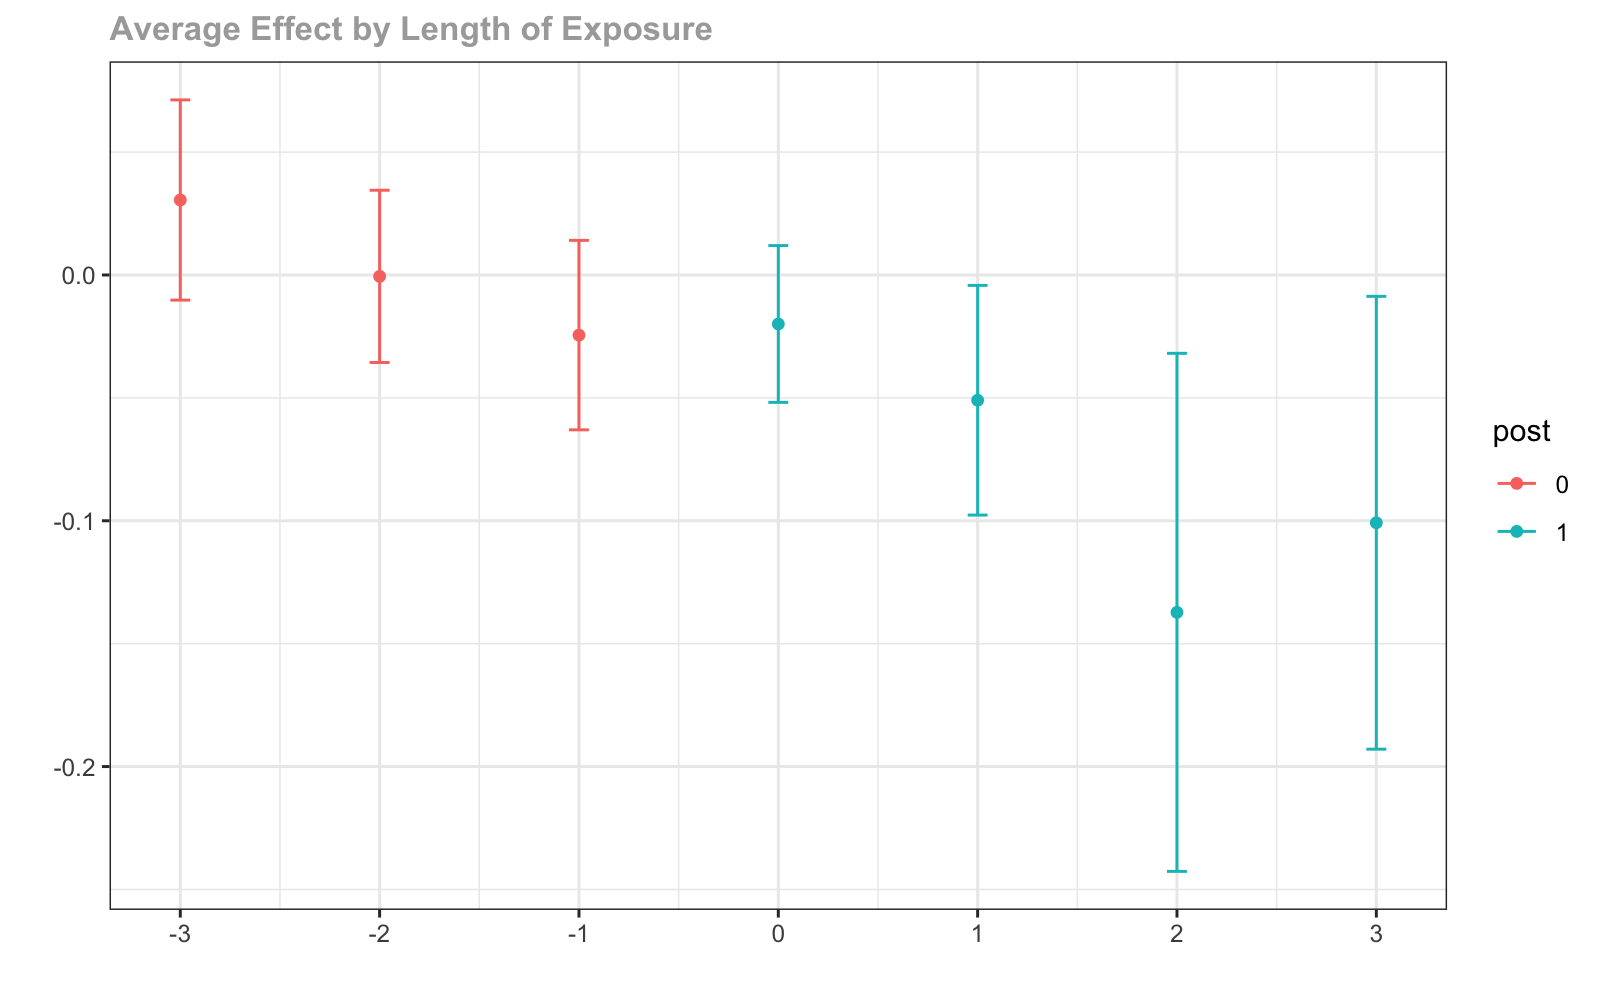
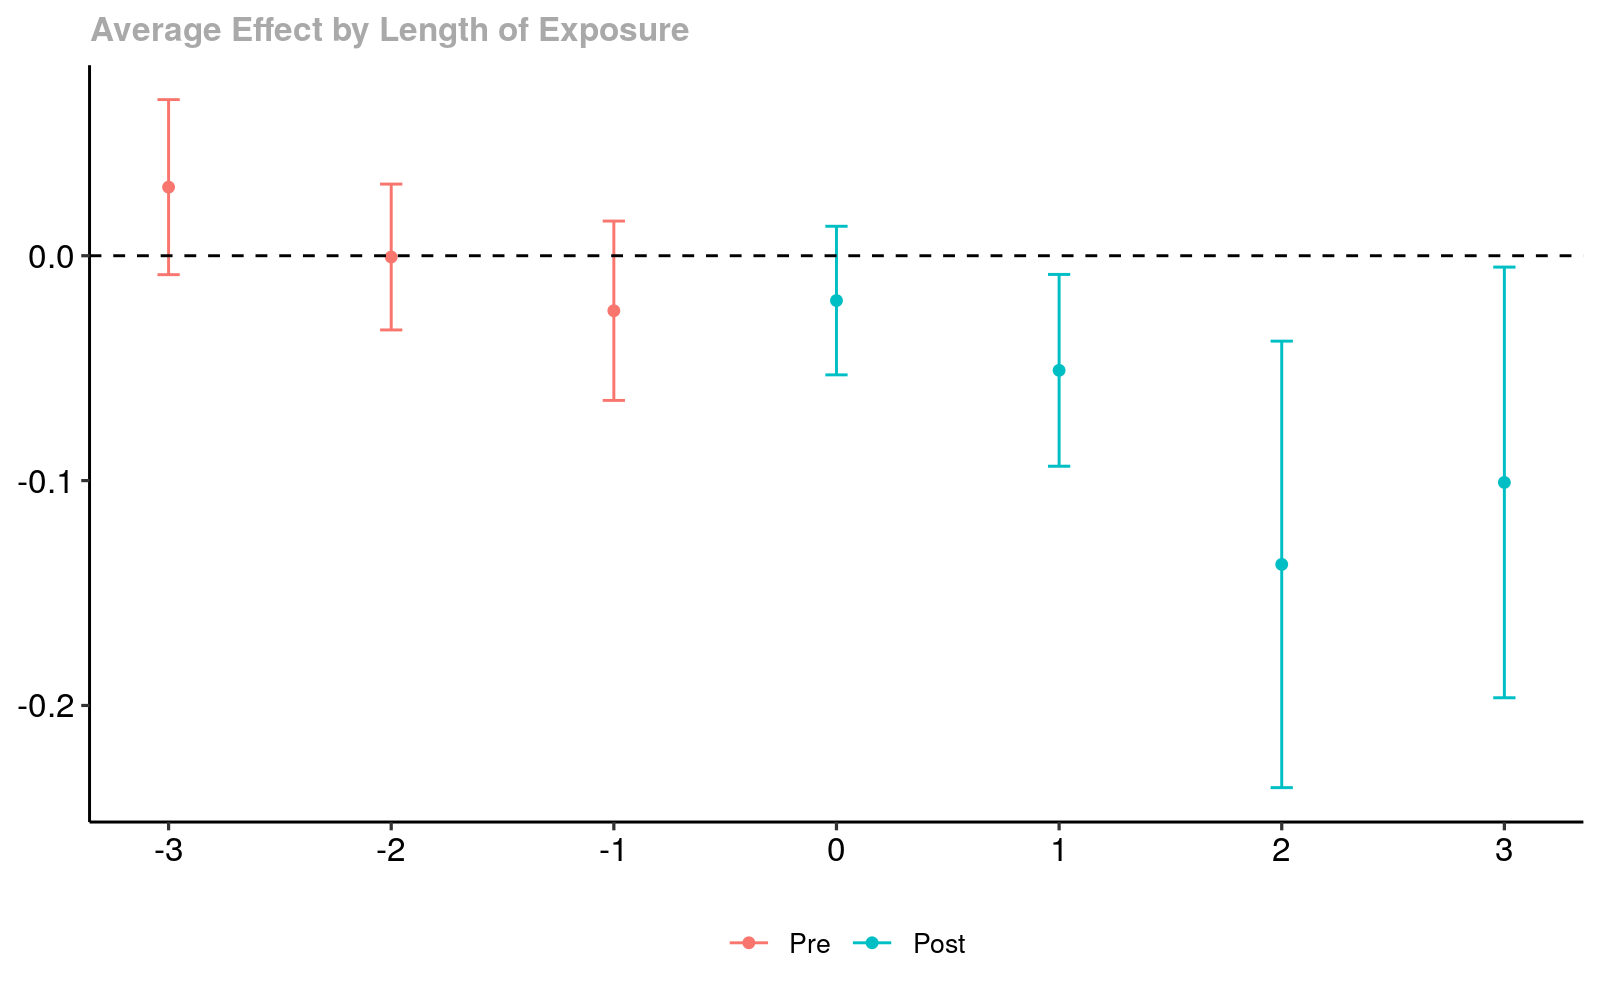
updated readme

diff --git a/README.md b/README.md
@@ -1,67 +1,45 @@
 
 <!-- README.md is generated from README.Rmd. Please edit that file -->
-
 # Difference-in-Differences <img src="man/figures/logo.png" align="right" alt="" width="155" />
 
 <!-- badges: start -->
-
 [![](http://cranlogs.r-pkg.org/badges/grand-total/did?color=orange)](https://cran.r-project.org/package=did)
 
 [![](http://cranlogs.r-pkg.org/badges/last-month/did?color=green)](https://cran.r-project.org/package=did)
 
 [![](https://www.r-pkg.org/badges/version/did?color=blue)](https://cran.r-project.org/package=did)
 
-[![](https://img.shields.io/badge/devel%20version-2.0.1-blue.svg)](https://github.com/bcallaway11/did)
+[![](https://img.shields.io/badge/devel%20version-2.0.1.907-blue.svg)](https://github.com/bcallaway11/did)
 
 [![](https://img.shields.io/github/languages/code-size/bcallaway11/did.svg)](https://github.com/bcallaway11/did)
 
-[![CRAN
-checks](https://cranchecks.info/badges/summary/did)](https://cran.r-project.org/web/checks/check_results_did.html)
+[![CRAN checks](https://cranchecks.info/badges/summary/did)](https://cran.r-project.org/web/checks/check_results_did.html)
 
 <!-- badges: end -->
-
 <!-- README.md is generated from README.Rmd. Please edit that file -->
+The **did** package contains tools for computing average treatment effect parameters in a Difference-in-Differences setup allowing for
 
-The **did** package contains tools for computing average treatment
-effect parameters in a Difference-in-Differences setup allowing for
+-   More than two time periods
 
-  - More than two time periods
+-   Variation in treatment timing (i.e., units can become treated at different points in time)
 
-  - Variation in treatment timing (i.e., units can become treated at
-    different points in time)
+-   Treatment effect heterogeneity (i.e, the effect of participating in the treatment can vary across units and exhibit potentially complex dynamics, selection into treatment, or time effects)
 
-  - Treatment effect heterogeneity (i.e, the effect of participating in
-    the treatment can vary across units and exhibit potentially complex
-    dynamics, selection into treatment, or time effects)
+-   The parallel trends assumption holds only after conditioning on covariates
 
-  - The parallel trends assumption holds only after conditioning on
-    covariates
+The main parameters are **group-time average treatment effects**. These are the average treatment effect for a particular group (group is defined by treatment timing) in a particular time period. These parameters are a natural generalization of the average treatment effect on the treated (ATT) which is identified in the textbook case with two periods and two groups to the case with multiple periods.
 
-The main parameters are **group-time average treatment effects**. These
-are the average treatment effect for a particular group (group is
-defined by treatment timing) in a particular time period. These
-parameters are a natural generalization of the average treatment effect
-on the treated (ATT) which is identified in the textbook case with two
-periods and two groups to the case with multiple periods.
-
-Group-time average treatment effects are also natural building blocks
-for more aggregated treatment effect parameters such as overall
-treatment effects or event-study-type estimands.
+Group-time average treatment effects are also natural building blocks for more aggregated treatment effect parameters such as overall treatment effects or event-study-type estimands.
 
 ## Getting Started
 
-There has been some recent work on DiD with multiple time periods. The
-**did** package implements the framework put forward in
+There has been some recent work on DiD with multiple time periods. The **did** package implements the framework put forward in
 
-  - [Callaway, Brantly, and Pedro H.C. Sant'Anna.
-    Difference-in-differences with multiple time periods. Forthcoming at
-    the Journal of Econometrics
-    (2020).](https://authors.elsevier.com/a/1cFzc15Dji4pnC)
+-   [Callaway, Brantly, and Pedro H.C. Sant'Anna. Difference-in-differences with multiple time periods. Forthcoming at the Journal of Econometrics (2020).](https://authors.elsevier.com/a/1cFzc15Dji4pnC)
 
 **Higher level discussions of issues are available in**
 
-  - [Our approach to DiD with multiple time
-    periods](https://bcallaway11.github.io/did/articles/multi-period-did.html)
+-   [Our approach to DiD with multiple time periods](https://bcallaway11.github.io/did/articles/multi-period-did.html)
 
 ## Installation
 
@@ -80,13 +58,9 @@ devtools::install_github("bcallaway11/did")
 
 ## A short example
 
-The following is a simplified example of the effect of states increasing
-their minimum wages on county-level teen employment rates which comes
-from [Callaway and Sant’Anna
-(2020)](https://authors.elsevier.com/a/1cFzc15Dji4pnC).
+The following is a simplified example of the effect of states increasing their minimum wages on county-level teen employment rates which comes from [Callaway and Sant'Anna (2020)](https://authors.elsevier.com/a/1cFzc15Dji4pnC).
 
-  - [More detailed examples are also
-    available](https://bcallaway11.github.io/did/articles/did-basics.html)
+-   [More detailed examples are also available](https://bcallaway11.github.io/did/articles/did-basics.html)
 
 A subset of the data is available in the package and can be loaded by
 
@@ -95,25 +69,17 @@ A subset of the data is available in the package and can be loaded by
   data(mpdta)
 ```
 
-The dataset contains 500 observations of county-level teen employment
-rates from 2003-2007. Some states are first treated in 2004, some in
-2006, and some in 2007 (see the paper for more details). The important
-variables in the dataset are
+The dataset contains 500 observations of county-level teen employment rates from 2003-2007. Some states are first treated in 2004, some in 2006, and some in 2007 (see the paper for more details). The important variables in the dataset are
 
-  - **lemp** This is the log of county-level teen employment. It is the
-    outcome variable
+-   **lemp** This is the log of county-level teen employment. It is the outcome variable
 
-  - **first.treat** This is the period when a state first increases its
-    minimum wage. It can be 2004, 2006, or 2007. It is the variable that
-    defines *group* in this application
+-   **first.treat** This is the period when a state first increases its minimum wage. It can be 2004, 2006, or 2007. It is the variable that defines *group* in this application
 
-  - **year** This is the year and is the *time* variable
+-   **year** This is the year and is the *time* variable
 
-  - **countyreal** This is an id number for each county and provides the
-    individual identifier in this panel data context
+-   **countyreal** This is an id number for each county and provides the individual identifier in this panel data context
 
-To estimate group-time average treatment effects, use the **att\_gt**
-function
+To estimate group-time average treatment effects, use the **att\_gt** function
 
 ``` r
 out <- att_gt(yname = "lemp",
@@ -126,10 +92,7 @@ out <- att_gt(yname = "lemp",
               )
 ```
 
-**att\_gt** returns a class **MP** object. This has a lot of
-information, but most importantly is has estimates of the group-time
-average treatment effects and their standard errors. To see these, we
-can call the **summary** function
+**att\_gt** returns a class **MP** object. This has a lot of information, but most importantly is has estimates of the group-time average treatment effects and their standard errors. To see these, we can call the **summary** function
 
 ``` r
 summary(out)
@@ -142,18 +105,18 @@ summary(out)
 #> 
 #> Group-Time Average Treatment Effects:
 #>  Group Time ATT(g,t) Std. Error [95% Simult.  Conf. Band]  
-#>   2004 2004  -0.0105     0.0259       -0.0796      0.0586  
-#>   2004 2005  -0.0704     0.0312       -0.1535      0.0127  
-#>   2004 2006  -0.1373     0.0375       -0.2373     -0.0372 *
-#>   2004 2007  -0.1008     0.0352       -0.1947     -0.0069 *
-#>   2006 2004   0.0065     0.0229       -0.0547      0.0677  
-#>   2006 2005  -0.0028     0.0203       -0.0568      0.0513  
-#>   2006 2006  -0.0046     0.0179       -0.0522      0.0430  
-#>   2006 2007  -0.0412     0.0210       -0.0972      0.0148  
-#>   2007 2004   0.0305     0.0159       -0.0118      0.0728  
-#>   2007 2005  -0.0027     0.0164       -0.0465      0.0410  
-#>   2007 2006  -0.0311     0.0183       -0.0797      0.0176  
-#>   2007 2007  -0.0261     0.0179       -0.0737      0.0215  
+#>   2004 2004  -0.0105     0.0255       -0.0788      0.0578  
+#>   2004 2005  -0.0704     0.0311       -0.1539      0.0130  
+#>   2004 2006  -0.1373     0.0364       -0.2351     -0.0394 *
+#>   2004 2007  -0.1008     0.0337       -0.1912     -0.0104 *
+#>   2006 2004   0.0065     0.0242       -0.0583      0.0713  
+#>   2006 2005  -0.0028     0.0186       -0.0526      0.0471  
+#>   2006 2006  -0.0046     0.0184       -0.0539      0.0448  
+#>   2006 2007  -0.0412     0.0205       -0.0961      0.0137  
+#>   2007 2004   0.0305     0.0161       -0.0127      0.0737  
+#>   2007 2005  -0.0027     0.0160       -0.0458      0.0403  
+#>   2007 2006  -0.0311     0.0192       -0.0826      0.0204  
+#>   2007 2007  -0.0261     0.0174       -0.0726      0.0205  
 #> ---
 #> Signif. codes: `*' confidence band does not cover 0
 #> 
@@ -162,17 +125,9 @@ summary(out)
 #> Estimation Method:  Outcome Regression
 ```
 
-This provides estimates of group-time average treatment effects for all
-groups in all time periods. Group-time average treatment effects are
-identified when `t >= g` (these are post-treatment time periods for each
-group), but **summary** reports them even in periods when `t < g` –
-these can be used to pre-test for the parallel trends assumption. The
-`P-value for pre-test of parallel trends assumption` is for a Wald
-pre-test of the parallel trends assumption. Here the parallel trends
-assumption would not be rejected at conventional significance levels.
+This provides estimates of group-time average treatment effects for all groups in all time periods. Group-time average treatment effects are identified when `t >= g` (these are post-treatment time periods for each group), but **summary** reports them even in periods when `t < g` -- these can be used to pre-test for the parallel trends assumption. The `P-value for pre-test of parallel trends assumption` is for a Wald pre-test of the parallel trends assumption. Here the parallel trends assumption would not be rejected at conventional significance levels.
 
-It is often also convenient to plot the group-time average treatment
-effects. This can be done using the **ggdid** command:
+It is often also convenient to plot the group-time average treatment effects. This can be done using the **ggdid** command:
 
 ``` r
 ggdid(out, ylim = c(-.25,.1))
@@ -180,32 +135,19 @@ ggdid(out, ylim = c(-.25,.1))
 
 <img src="man/figures/README-unnamed-chunk-8-1.png" width="90%" style="display: block; margin: auto;" />
 
-The red dots in the plot are pre-treatment group-time average treatment
-effects . Here they are provided with 95% simultaneous confidence
-intervals. These are the estimates that can be interpreted as a pre-test
-of the parallel trends assumption. The blue dots are post-treatment
-group-time average treatment effects. Under the parallel trends
-assumption, these can be interpreted as policy effects – here the effect
-of the minimum wage on county-level teen employment due to increasing
-the minimum wage.
+The red dots in the plot are pre-treatment group-time average treatment effects . Here they are provided with 95% simultaneous confidence intervals. These are the estimates that can be interpreted as a pre-test of the parallel trends assumption. The blue dots are post-treatment group-time average treatment effects. Under the parallel trends assumption, these can be interpreted as policy effects -- here the effect of the minimum wage on county-level teen employment due to increasing the minimum wage.
 
 **Event Studies**
 
-Although in the current example it is pretty easy to directly interpret
-the group-time average treatment effects, there are many cases where it
-is convenient to aggregate the group-time average treatment effects into
-a small number of parameters. A main type of aggregation is into an
-*event study* plot.
+Although in the current example it is pretty easy to directly interpret the group-time average treatment effects, there are many cases where it is convenient to aggregate the group-time average treatment effects into a small number of parameters. A main type of aggregation is into an *event study* plot.
 
-To make an event study plot in the **did** package, one can use the
-**aggte** function
+To make an event study plot in the **did** package, one can use the **aggte** function
 
 ``` r
 es <- aggte(out, type = "dynamic")
 ```
 
-Just like for group-time average treatment effects, these can be
-summarized and plotted. First, the summary
+Just like for group-time average treatment effects, these can be summarized and plotted. First, the summary
 
 ``` r
 summary(es)
@@ -216,20 +158,20 @@ summary(es)
 #> Reference: Callaway, Brantly and Pedro H.C. Sant'Anna.  "Difference-in-Differences with Multiple Time Periods." Forthcoming at the Journal of Econometrics <https://arxiv.org/abs/1803.09015>, 2020. 
 #> 
 #> 
-#> Overall ATT:  
-#>      ATT Std. Error     [95%  Conf. Int.]  
-#>  -0.0772     0.0205   -0.1175      -0.037 *
+#> Overall summary of ATT’s based on event-study/dynamic aggregation:  
+#>      ATT    Std. Error     [ 95%  Conf. Int.]  
+#>  -0.0772        0.0203     -0.117     -0.0374 *
 #> 
 #> 
 #> Dynamic Effects:
 #>  Event time Estimate Std. Error [95% Simult.  Conf. Band]  
-#>          -3   0.0305     0.0153       -0.0102      0.0712  
-#>          -2  -0.0006     0.0132       -0.0356      0.0345  
-#>          -1  -0.0245     0.0145       -0.0630      0.0141  
-#>           0  -0.0199     0.0120       -0.0518      0.0120  
-#>           1  -0.0510     0.0175       -0.0977     -0.0042 *
-#>           2  -0.1373     0.0396       -0.2426     -0.0319 *
-#>           3  -0.1008     0.0346       -0.1929     -0.0087 *
+#>          -3   0.0305     0.0148       -0.0084      0.0694  
+#>          -2  -0.0006     0.0123       -0.0330      0.0319  
+#>          -1  -0.0245     0.0151       -0.0643      0.0154  
+#>           0  -0.0199     0.0125       -0.0530      0.0131  
+#>           1  -0.0510     0.0162       -0.0936     -0.0083 *
+#>           2  -0.1373     0.0376       -0.2365     -0.0380 *
+#>           3  -0.1008     0.0363       -0.1966     -0.0051 *
 #> ---
 #> Signif. codes: `*' confidence band does not cover 0
 #> 
@@ -237,11 +179,7 @@ summary(es)
 #> Estimation Method:  Outcome Regression
 ```
 
-The column `event time` is for each group relative to when they first
-participate in the treatment. To give some examples, `event time=0`
-corresponds to the *on impact* effect, and `event time=-1` is the
-*effect* in the period before a unit becomes treated (checking that this
-is equal to 0 is potentially useful as a pre-test).
+The column `event time` is for each group relative to when they first participate in the treatment. To give some examples, `event time=0` corresponds to the *on impact* effect, and `event time=-1` is the *effect* in the period before a unit becomes treated (checking that this is equal to 0 is potentially useful as a pre-test).
 
 To plot the event study, use **ggdid**
 
@@ -251,23 +189,13 @@ ggdid(es)
 
 <img src="man/figures/README-unnamed-chunk-11-1.png" width="90%" style="display: block; margin: auto;" />
 
-The figure here is very similar to the group-time average treatment
-effects. Red dots are pre-treatment periods, blue dots are
-post-treatment periods. The difference is that the x-axis is in event
-time.
+The figure here is very similar to the group-time average treatment effects. Red dots are pre-treatment periods, blue dots are post-treatment periods. The difference is that the x-axis is in event time.
 
 **Overall Effect of Participating in the Treatment**
 
-The event study above reported an overall effect of participating in the
-treatment. This was computed by averaging the average effects computed
-at each length of exposure.
+The event study above reported an overall effect of participating in the treatment. This was computed by averaging the average effects computed at each length of exposure.
 
-In many cases, a more general purpose overall treatment effect parameter
-is give by computing the average treatment effect for each group, and
-then averaging across groups. This sort of procedure provides an average
-treatment effect parameter with a very similar interpretation to the
-Average Treatment Effect on the Treated (ATT) in the two period and two
-group case.
+In many cases, a more general purpose overall treatment effect parameter is give by computing the average treatment effect for each group, and then averaging across groups. This sort of procedure provides an average treatment effect parameter with a very similar interpretation to the Average Treatment Effect on the Treated (ATT) in the two period and two group case.
 
 To compute this overall average treatment effect parameter, use
 
@@ -281,16 +209,16 @@ summary(group_effects)
 #> Reference: Callaway, Brantly and Pedro H.C. Sant'Anna.  "Difference-in-Differences with Multiple Time Periods." Forthcoming at the Journal of Econometrics <https://arxiv.org/abs/1803.09015>, 2020. 
 #> 
 #> 
-#> Overall ATT:  
-#>     ATT Std. Error     [95%  Conf. Int.]  
-#>  -0.031     0.0125   -0.0554     -0.0066 *
+#> Overall summary of ATT’s based on group/cohort aggregation:  
+#>     ATT    Std. Error     [ 95%  Conf. Int.]  
+#>  -0.031        0.0126    -0.0558     -0.0063 *
 #> 
 #> 
 #> Group Effects:
 #>  Group Estimate Std. Error [95% Simult.  Conf. Band]  
-#>   2004  -0.0797     0.0274       -0.1388     -0.0207 *
-#>   2006  -0.0229     0.0165       -0.0585      0.0127  
-#>   2007  -0.0261     0.0176       -0.0641      0.0120  
+#>   2004  -0.0797     0.0305       -0.1476     -0.0119 *
+#>   2006  -0.0229     0.0169       -0.0605      0.0146  
+#>   2007  -0.0261     0.0177       -0.0654      0.0133  
 #> ---
 #> Signif. codes: `*' confidence band does not cover 0
 #> 
@@ -298,23 +226,16 @@ summary(group_effects)
 #> Estimation Method:  Outcome Regression
 ```
 
-Of particular interest is the `Overall ATT` in the results. Here, we
-estimate that increasing the minimum wage decreased teen employment by
-3.1% and the effect is marginally statistically significant.
+Of particular interest is the `Overall ATT` in the results. Here, we estimate that increasing the minimum wage decreased teen employment by 3.1% and the effect is marginally statistically significant.
 
 ## Additional Resources
 
-We have provided several more vignettes that may be helpful for using
-the **did** package
+We have provided several more vignettes that may be helpful for using the **did** package
 
-  - [Getting Started with the did
-    Package](https://bcallaway11.github.io/did/articles/did-basics.html)
+-   [Getting Started with the did Package](https://bcallaway11.github.io/did/articles/did-basics.html)
 
-  - [Introduction to DiD with Multiple Time
-    Periods](https://bcallaway11.github.io/did/articles/multi-period-did.html)
+-   [Introduction to DiD with Multiple Time Periods](https://bcallaway11.github.io/did/articles/multi-period-did.html)
 
-  - [Pre-Testing in a DiD Setup using the did
-    Package](https://bcallaway11.github.io/did/articles/pre-testing.html)
+-   [Pre-Testing in a DiD Setup using the did Package](https://bcallaway11.github.io/did/articles/pre-testing.html)
 
-  - [Writing Extensions to the did
-    Package](https://bcallaway11.github.io/did/articles/extensions.html)
+-   [Writing Extensions to the did Package](https://bcallaway11.github.io/did/articles/extensions.html)
